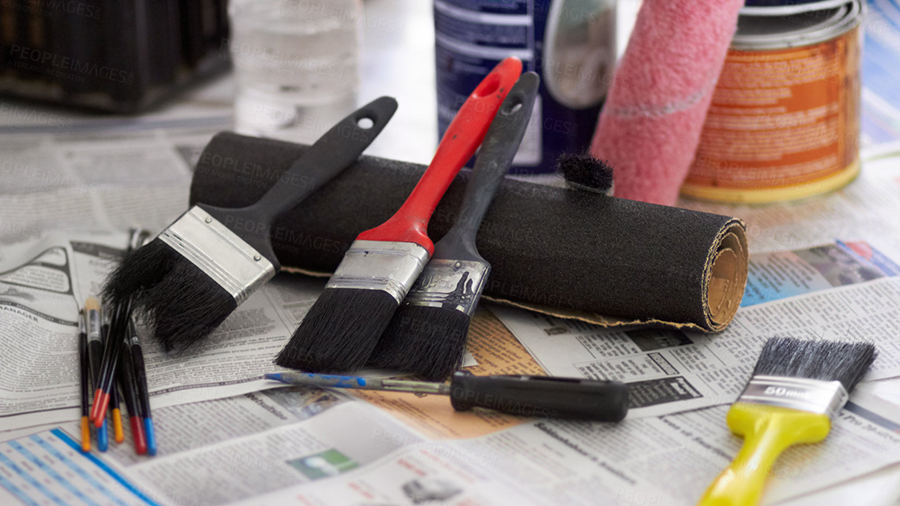
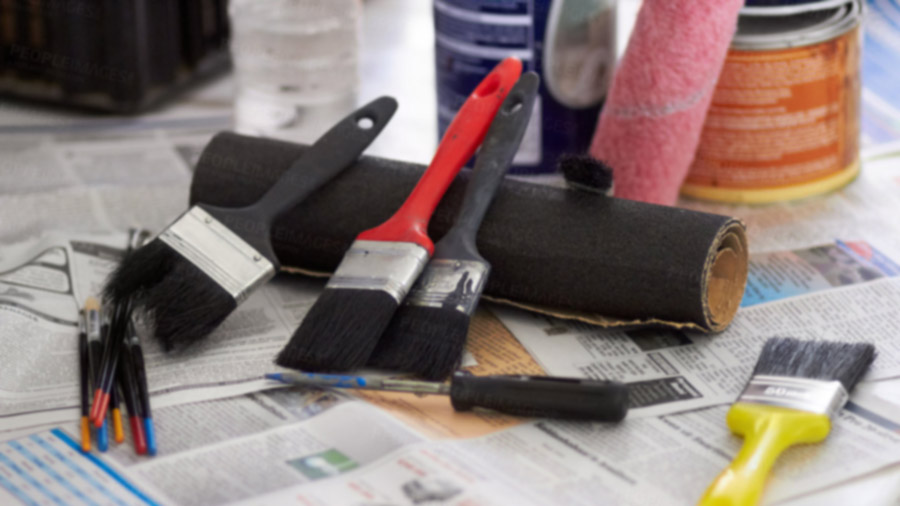
using cc placeholder images for meantime

diff --git a/index.html b/index.html
@@ -52,13 +52,13 @@
               <div class="collapse navbar-collapse align-items-center flex-sm-row" id="navBar" data-mobile-scroll-hide="true">
                 <ul id="js-scroll-nav" class="navbar-nav text-uppercase g-font-weight-700 g-font-size-12 g-pt-20 g-pt-5--lg ml-auto">
                   <li class="nav-item g-mr-8--lg g-mb-7 g-mb-0--lg active">
-                    <a href="#home" class="nav-link p-0">Home <span class="sr-only">(current)</span></a>
+                    <a href="#home" class="nav-link p-0">Home</span></a>
                   </li>
                   <li class="nav-item g-mx-8--lg g-mb-7 g-mb-0--lg">
                     <a href="#about" class="nav-link p-0">About</a>
                   </li>
                   <li class="nav-item g-mx-8--lg g-mb-7 g-mb-0--lg">
-                    <a href="#examples" class="nav-link p-0">Examples</a>
+                    <a href="#examples" class="nav-link p-0">Services</a>
                   </li>
                   <li class="nav-item g-mx-8--lg g-mb-7 g-mb-0--lg">
                     <a href="#contact" class="nav-link p-0">Contact</a>
@@ -91,47 +91,14 @@
       <section id="home">
         <div class="container-fluid">
           <div class="row">
-            <div class="col-md-12 u-bg-overlay g-flex-centered g-height-100vh--md g-min-height-300 g-bg-img-hero g-bg-black-opacity-0_7--after text-md-right g-py-40 g-pr-50--md" style="background-image: url(assets/img/bg/img1.jpg);"
+            <div class="col-md-12 u-bg-overlay g-flex-centered g-height-95vh--md g-min-height-300 g-bg-img-hero g-bg-black-opacity-0_5--after text-md-right g-py-40 g-pr-50--md" style="background-image: url(assets/img/bg/banner.jpg);"
                  data-calc-target="#js-header">
               <div class="w-100 u-bg-overlay__inner g-py-100">
                 <h3 class="h4 g-font-weight-700 g-color-primary g-mb-20">Professional and dependable</h3>
 
                 <div class="g-brd-left g-brd-left-none--md g-brd-right--md g-brd-10 g-brd-primary g-color-white g-pl-30 g-pr-20 g-pl-0--lg g-mb-30">
-                  <h2 class="text-uppercase g-line-height-0_9 g-font-weight-700 g-font-size-40 g-font-size-56--md g-font-size-76--lg mb-0">Building<br> Services</h2>
+                  <h2 class="text-uppercase g-line-height-0_9 g-font-weight-700 g-font-size-40 g-font-size-56--md g-font-size-76--lg mb-0">TPS Building<br> Services</h2>
                 </div>
-
-                <a class="btn btn-lg u-btn-darkgray u-btn-inset mx-2" href="#">
-                  Read more
-                  <i class="fa fa-arrow-left g-color-primary ml-2"></i>
-                </a>
-              </div>
-            </div>
-          </div>
-        </div>
-      </section>
-      <!-- End Section Content -->
-
-      <!-- Section Content -->
-      <section id="quote">
-        <div class="u-bg-overlay g-bg-primary g-bg-primary-opacity-0_9--after g-py-40 g-py-10--lg">
-          <div class="container text-center text-lg-left g-color-white">
-            <div class="row justify-content-between">
-              <div class="col-lg-3 ml-lg-autoQ">
-                <img class="img-fluid g-width-200 g-width-auto--lg g-mb-30 g-mb-0--lg mx-auto" src="assets/img/bg/img1.jpg" alt="Image description">
-              </div>
-
-              <div class="col-lg-6 u-bg-overlay__inner g-flex-centered">
-                <div class="w-100">
-                  <h2 class="text-uppercase g-line-height-1_1 g-font-weight-700 g-font-size-26 g-mb-10">Need a Quotation?</h2>
-                  <p class="g-line-height-1_2 g-font-size-18 g-color-white g-pb-20 g-pb-0--lg">Sed ut perspiciatis unde omnis iste natus error sit voluptatem accusantium doloremque laudantium, totam rem aperiam, eaque ipsa quae ab illo.</p>
-                </div>
-              </div>
-
-              <div class="col-lg-2 u-bg-overlay__inner g-flex-centered">
-                <a class="btn btn-lg u-btn-darkgray u-btn-inset mx-2" href="#">
-                  <i class="fa fa-arrow-right g-color-primary mr-2"></i>
-                  Get a quote
-                </a>
               </div>
             </div>
           </div>
@@ -144,104 +111,14 @@
         <div class="container">
           <div class="row">
             <div class="col-md-5 g-mb-30 g-mb-0--md">
-              <img class="img-fluid g-mb-30" src="assets/img-temp/1000x562/img1.jpg" alt="Image description">
-
-              <h3 class="text-uppercase g-font-weight-700 g-font-size-18 g-color-black g-mb-10">Building since 1943</h3>
-              <p class="mb-0">Sed ut perspiciatis unde omnis iste natus error sit voluptatem accusantium doloremque laudantium, totam rem aperiam, eaque ipsa quae ab illo inventore veritatis et quasi.</p>
+              <img class="img-fluid" src="assets/img/bg/van.jpg" alt="Image description">
             </div>
 
             <div class="col-md-7">
-              <div id="aboutAccordion" role="tablist" aria-multiselectable="true">
-                <div class="card g-brd-none">
-                  <div id="aboutAccordionHeading1" class="card-header u-accordion__header g-bg-transparent g-brd-none rounded-0 p-0" role="tab">
-                    <a class="d-block text-uppercase g-pos-rel g-font-weight-700 g-font-size-12 g-brd-bottom g-brd-2 g-py-15" href="#aboutAccordionBody1" aria-expanded="true" aria-controls="aboutAccordionBody1"
-                       data-toggle="collapse"
-                       data-parent="#aboutAccordion">
-                      <i class="icon-user g-valign-middle g-font-size-23 g-color-primary g-mr-10"></i>
-                      Who we are
-                      <span class="u-accordion__control-icon g-absolute-centered--y g-right-0 g-color-primary">
-                        <i class="fa fa-arrow-right"></i>
-                        <i class="fa fa-arrow-down"></i>
-                      </span>
-                    </a>
-                  </div>
-
-                  <div id="aboutAccordionBody1" class="collapse show" role="tabpanel" aria-labelledby="aboutAccordionHeading1"
-                       data-parent="#aboutAccordion">
-                    <div class="card-block u-accordion__body g-py-20 px-0">
-                      <p class="g-font-size-default g-theme-color-gray-light-v2 mb-0">Anim pariatur cliche reprehenderit, 3 wolf moon officia aute, non cupidatat skateboard dolor brunch. Food truck quinoa nesciunt laborum eiusmod.
-                        <br>Lorem ipsum dolor sit amet, consectetur adipiscing elit, sed do eiusmod tempor incididunt ut labore et dolore magna aliqua. Ut enim ad minim veniam, quis nostrud exercitation ullamco laboris nisi ut aliquip ex ea commodo consequat.
-                      </p>
-                    </div>
-                  </div>
-                </div>
-
-                <div class="card g-brd-none">
-                  <div id="aboutAccordionHeading2" class="card-header u-accordion__header g-bg-transparent g-brd-none rounded-0 p-0" role="tab">
-                    <a class="d-block text-uppercase g-pos-rel g-font-weight-700 g-font-size-12 g-brd-bottom g-brd-2 g-py-15 collapsed" href="#aboutAccordionBody2" aria-expanded="false" aria-controls="aboutAccordionBody2"
-                       data-toggle="collapse"
-                       data-parent="#aboutAccordion">
-                      <i class="icon-calendar g-valign-middle g-font-size-23 g-color-primary g-mr-10"></i>
-                      Our history
-                      <span class="u-accordion__control-icon g-absolute-centered--y g-right-0 g-color-primary">
-                        <i class="fa fa-arrow-right"></i>
-                        <i class="fa fa-arrow-down"></i>
-                      </span>
-                    </a>
-                  </div>
-
-                  <div id="aboutAccordionBody2" class="collapse" role="tabpanel" aria-labelledby="aboutAccordionHeading2"
-                       data-parent="#aboutAccordion">
-                    <div class="card-block u-accordion__body g-py-20 px-0">
-                      <p class="g-font-size-default g-theme-color-gray-light-v2 mb-0">Anim pariatur cliche reprehenderit, enim eiusmod high life accusamus terry richardson ad squid. Food truck quinoa nesciunt laborum eiusmod. Duis aute irure dolor in reprehenderit in voluptate velit esse cillum dolore eu fugiat nulla pariatur.</p>
-                    </div>
-                  </div>
-                </div>
-
-                <div class="card g-brd-none">
-                  <div id="aboutAccordionHeading3" class="card-header u-accordion__header g-bg-transparent g-brd-none rounded-0 p-0" role="tab">
-                    <a class="d-block text-uppercase g-pos-rel g-font-weight-700 g-font-size-12 g-brd-bottom g-brd-2 g-py-15 collapsed" href="#aboutAccordionBody3" aria-expanded="false" aria-controls="aboutAccordionBody3"
-                       data-toggle="collapse"
-                       data-parent="#aboutAccordion">
-                      <i class="icon-settings g-valign-middle g-font-size-23 g-color-primary g-mr-10"></i>
-                      Our services
-                      <span class="u-accordion__control-icon g-absolute-centered--y g-right-0 g-color-primary">
-                        <i class="fa fa-arrow-right"></i>
-                        <i class="fa fa-arrow-down"></i>
-                      </span>
-                    </a>
-                  </div>
-
-                  <div id="aboutAccordionBody3" class="collapse" role="tabpanel" aria-labelledby="aboutAccordionHeading3"
-                       data-parent="#aboutAccordion">
-                    <div class="card-block u-accordion__body g-py-20 px-0">
-                      <p class="g-font-size-default g-theme-color-gray-light-v2 mb-0">3 wolf moon officia aute, non cupidatat skateboard dolor brunch. Food truck quinoa nesciunt laborum eiusmod. At vero eos et accusamus et iusto odio dignissimos ducimus qui blanditiis praesentium voluptatum deleniti atque corrupti quos dolores et quas molestias excepturi sint occaecati cupiditate non provident.</p>
-                    </div>
-                  </div>
-                </div>
-
-                <div class="card g-brd-none">
-                  <div id="aboutAccordionHeading4" class="card-header u-accordion__header g-bg-transparent g-brd-none rounded-0 p-0" role="tab">
-                    <a class="d-block text-uppercase g-pos-rel g-font-weight-700 g-font-size-12 g-brd-bottom g-brd-2 g-py-15 collapsed" href="#aboutAccordionBody4" aria-expanded="false" aria-controls="aboutAccordionBody4"
-                       data-toggle="collapse"
-                       data-parent="#aboutAccordion">
-                      <i class="icon-diamond g-valign-middle g-font-size-23 g-color-primary g-mr-10"></i>
-                      Our values
-                      <span class="u-accordion__control-icon g-absolute-centered--y g-right-0 g-color-primary">
-                        <i class="fa fa-arrow-right"></i>
-                        <i class="fa fa-arrow-down"></i>
-                      </span>
-                    </a>
-                  </div>
-
-                  <div id="aboutAccordionBody4" class="collapse" role="tabpanel" aria-labelledby="aboutAccordionHeading4"
-                       data-parent="#aboutAccordion">
-                    <div class="card-block u-accordion__body g-py-20 px-0">
-                      <p class="g-font-size-default g-theme-color-gray-light-v2 mb-0">Anim pariatur cliche reprehenderit, enim eiusmod high life accusamus terry richardson ad squid. 3 wolf moon officia aute, non cupidatat skateboard dolor brunch. Food truck quinoa nesciunt laborum eiusmod. nesciunt laborum eiusmod.</p>
-                    </div>
-                  </div>
-                </div>
-              </div>
+              <h3 class="text-uppercase g-font-weight-700 g-font-size-18 g-color-black g-mb-10">We are TPS Building Services</h3>
+              <p class="mb-0">TPS Building Services is a family run business, operating since 2007. We carry out work all across the North-East of England and take on jobs big and small.</p>
+              <br>
+              <p class="mb-0">We began doing plaster and take on more complex and challenging project since etc.</p>
             </div>
           </div>
         </div>
@@ -256,26 +133,58 @@
               <img class="img-fluid g-hidden-md-down g-transform-scale-1_2--parent-hover g-transition-0_2 g-transition--ease-in" src="assets/img/bg/building.jpg" alt="Image description">
 
               <div class="text-center u-bg-overlay__inner g-absolute-centered g-width-90x">
-                <h3 class="text-uppercase g-font-weight-700 g-font-size-18 g-color-white g-mb-20">Building</h3>
-                <p class="g-color-white-opacity-0_7 g-mb-30">At vero eos et accusamus et iusto odio dignissimos ducimus qui blanditiis.</p>
+                <h3 class="text-uppercase g-font-weight-700 g-font-size-18 g-color-white g-mb-20">Home Refurbishments</h3>
+                <p class="g-color-white-opacity-0_7 g-mb-30">Whether you are refurbishing a single room or an entire house, TPS can handle the job.</p>
                 <a class="btn btn-lg u-btn-darkgray u-btn-inset mx-2" href="#">
                   <i class="fa fa-arrow-right g-color-primary mr-2"></i>
-                  Read more
+                  See more
                 </a>
               </div>
             </div>
           </div>
 
           <div class="col-md-6">
-            <div class="u-bg-overlay g-parent g-pos-rel g-min-height-300 g-bg-img-hero g-bg-black-opacity-0_6--after g-overflow-hidden" style="background-image: url(assets/img/bg/plumbing.jpg);">
-              <img class="img-fluid g-hidden-md-down g-transform-scale-1_2--parent-hover g-transition-0_2 g-transition--ease-in" src="assets/img/bg/plumbing.jpg" alt="Image description">
+            <div class="u-bg-overlay g-parent g-pos-rel g-min-height-300 g-bg-img-hero g-bg-black-opacity-0_6--after g-overflow-hidden" style="background-image: url(assets/img/bg/reconstruction.jpg);">
+              <img class="img-fluid g-hidden-md-down g-transform-scale-1_2--parent-hover g-transition-0_2 g-transition--ease-in" src="assets/img/bg/reconstruction.jpg" alt="Image description">
 
               <div class="text-center u-bg-overlay__inner g-absolute-centered g-width-90x">
-                <h3 class="text-uppercase g-font-weight-700 g-font-size-18 g-color-white g-mb-20">Plumbing works</h3>
-                <p class="g-color-white-opacity-0_7 g-mb-30">At vero eos et accusamus et iusto odio dignissimos ducimus qui blanditiis.</p>
+                <h3 class="text-uppercase g-font-weight-700 g-font-size-18 g-color-white g-mb-20">Garage Conversions</h3>
+                <p class="g-color-white-opacity-0_7 g-mb-30">Make more space in your home with a professional garage conversion by TPS.</p>
                 <a class="btn btn-lg u-btn-darkgray u-btn-inset mx-2" href="#">
                   <i class="fa fa-arrow-right g-color-primary mr-2"></i>
-                  Read more
+                  See more
+                </a>
+              </div>
+            </div>
+          </div>
+        </div>
+
+        <div class="row no-gutters">
+          <div class="col-md-6">
+            <div class="u-bg-overlay g-parent g-pos-rel g-min-height-300 g-bg-img-hero g-bg-black-opacity-0_6--after g-overflow-hidden" style="background-image: url(assets/img/bg/kitchen.jpg);">
+              <img class="img-fluid g-hidden-md-down g-transform-scale-1_2--parent-hover g-transition-0_2 g-transition--ease-in" src="assets/img/bg/kitchen.jpg" alt="Image description">
+
+              <div class="text-center u-bg-overlay__inner g-absolute-centered g-width-90x">
+                <h3 class="text-uppercase g-font-weight-700 g-font-size-18 g-color-white g-mb-20">Kitchen Installation</h3>
+                <p class="g-color-white-opacity-0_7 g-mb-30">Trust TPS to manage the complete installation of your dream kitchen.</p>
+                <a class="btn btn-lg u-btn-darkgray u-btn-inset mx-2" href="#">
+                  <i class="fa fa-arrow-right g-color-primary mr-2"></i>
+                  See more
+                </a>
+              </div>
+            </div>
+          </div>
+
+          <div class="col-md-6">
+            <div class="u-bg-overlay g-parent g-pos-rel g-min-height-300 g-bg-img-hero g-bg-black-opacity-0_6--after g-overflow-hidden" style="background-image: url(assets/img/bg/bathroom.jpg);">
+              <img class="img-fluid g-hidden-md-down g-transform-scale-1_2--parent-hover g-transition-0_2 g-transition--ease-in" src="assets/img/bg/bathroom.jpg" alt="Image description">
+
+              <div class="text-center u-bg-overlay__inner g-absolute-centered g-width-90x">
+                <h3 class="text-uppercase g-font-weight-700 g-font-size-18 g-color-white g-mb-20">Bathroom Fitting</h3>
+                <p class="g-color-white-opacity-0_7 g-mb-30">Soak and relax in your new professionally fitted bathroom.</p>
+                <a class="btn btn-lg u-btn-darkgray u-btn-inset mx-2" href="#">
+                  <i class="fa fa-arrow-right g-color-primary mr-2"></i>
+                  See more
                 </a>
               </div>
             </div>
@@ -288,26 +197,26 @@
               <img class="img-fluid g-hidden-md-down g-transform-scale-1_2--parent-hover g-transition-0_2 g-transition--ease-in" src="assets/img/bg/painting.jpg" alt="Image description">
 
               <div class="text-center u-bg-overlay__inner g-absolute-centered g-width-90x">
-                <h3 class="text-uppercase g-font-weight-700 g-font-size-18 g-color-white g-mb-20">Painting</h3>
-                <p class="g-color-white-opacity-0_7 g-mb-30">At vero eos et accusamus et iusto odio dignissimos ducimus qui blanditiis.</p>
+                <h3 class="text-uppercase g-font-weight-700 g-font-size-18 g-color-white g-mb-20">Painting and Decorating</h3>
+                <p class="g-color-white-opacity-0_7 g-mb-30">You pick the decor and colour, then let TPS do the rest.</p>
                 <a class="btn btn-lg u-btn-darkgray u-btn-inset mx-2" href="#">
                   <i class="fa fa-arrow-right g-color-primary mr-2"></i>
-                  Read more
+                  See more
                 </a>
               </div>
             </div>
           </div>
 
           <div class="col-md-6">
-            <div class="u-bg-overlay g-parent g-pos-rel g-min-height-300 g-bg-img-hero g-bg-black-opacity-0_6--after g-overflow-hidden" style="background-image: url(assets/img/bg/reconstruction.jpg);">
-              <img class="img-fluid g-hidden-md-down g-transform-scale-1_2--parent-hover g-transition-0_2 g-transition--ease-in" src="assets/img/bg/reconstruction.jpg" alt="Image description">
+            <div class="u-bg-overlay g-parent g-pos-rel g-min-height-300 g-bg-img-hero g-bg-black-opacity-0_6--after g-overflow-hidden" style="background-image: url(assets/img/bg/plastering.jpg);">
+              <img class="img-fluid g-hidden-md-down g-transform-scale-1_2--parent-hover g-transition-0_2 g-transition--ease-in" src="assets/img/bg/plastering.jpg" alt="Image description">
 
               <div class="text-center u-bg-overlay__inner g-absolute-centered g-width-90x">
-                <h3 class="text-uppercase g-font-weight-700 g-font-size-18 g-color-white g-mb-20">Reconstruction</h3>
-                <p class="g-color-white-opacity-0_7 g-mb-30">At vero eos et accusamus et iusto odio dignissimos ducimus qui blanditiis.</p>
+                <h3 class="text-uppercase g-font-weight-700 g-font-size-18 g-color-white g-mb-20">Plastering</h3>
+                <p class="g-color-white-opacity-0_7 g-mb-30">With almost 25 years combined experience, you can trust TPS with all your plastering needs.</p>
                 <a class="btn btn-lg u-btn-darkgray u-btn-inset mx-2" href="#">
                   <i class="fa fa-arrow-right g-color-primary mr-2"></i>
-                  Read more
+                  See more
                 </a>
               </div>
             </div>
@@ -321,7 +230,6 @@
         <div id="contact" class="text-center g-color-gray-dark-v1 g-py-100">
           <div class="container">
             <div class="text-uppercase text-center u-heading-v2-4--bottom g-brd-primary g-mb-45">
-              <h4 class="g-font-weight-700 g-font-size-12 g-color-primary g-mb-15">Contact us</h4>
               <h2 class="u-heading-v2__title g-line-height-1_1 g-font-weight-700 g-font-size-40 g-color-black g-mb-minus-10">Get in touch</h2>
             </div>
 
@@ -333,13 +241,13 @@
                       <div class="col-sm-4 g-brd-left g-brd-bottom g-theme-brd-gray-light-v3 g-px-15 g-py-25">
                         <i class="icon-notebook d-inline-block g-font-size-50 g-color-primary g-mb-30"></i>
                         <h3 class="text-uppercase g-font-size-11 g-line-height-1 g-theme-color-gray-light-v2 mb-0">Address</h3>
-                        <strong class="g-font-size-11">Sit amet adipiscing</strong>
+                        <strong class="g-font-size-11">Hartlepool</strong>
                       </div>
 
                       <div class="col-sm-4 g-brd-left g-brd-bottom g-theme-brd-gray-light-v3 g-px-15 g-py-25">
                         <i class="icon-call-in d-inline-block g-font-size-50 g-color-primary g-mb-30"></i>
                         <h3 class="text-uppercase g-font-size-11 g-line-height-1 g-theme-color-gray-light-v2 mb-0">Phone number</h3>
-                        <strong class="g-font-size-11">+402 5448 569</strong>
+                        <strong class="g-font-size-11">07754 980054</strong>
                       </div>
 
                       <div class="col-sm-4 g-brd-left g-brd-bottom g-theme-brd-gray-light-v3 g-px-15 g-py-25">
@@ -355,7 +263,7 @@
           </div>
         </div>
 
-        <div class="u-bg-overlay g-bg-img-hero g-color-white g-bg-primary-opacity-0_9--after g-py-100">
+        <div class="u-bg-overlay g-color-white g-bg-primary-opacity-0_9--after g-py-30">
           <div class="container text-center text-md-left u-bg-overlay__inner">
             <div class="row">
               <div class="col-md-9 col-lg-5 d-flex align-items-center g-mb-20 g-mb-0--md">
